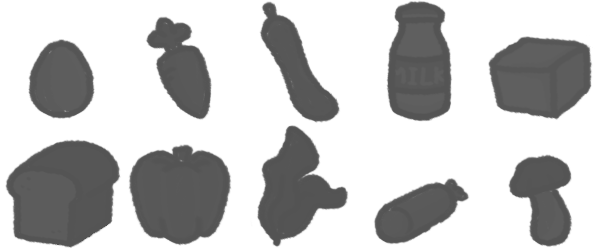
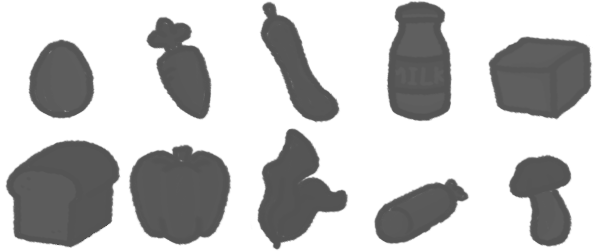
버그수정

diff --git a/_Script/EndingBox.cs b/_Script/EndingBox.cs
@@ -23,7 +23,7 @@ public class EndingBox : MonoBehaviour {
     public GameObject endR_obj, endL_obj, endClose_obj;
     public GameObject[] ani_obk;
     public AudioSource m_end;
-    public AudioClip sp_end, sp_original;
+    public AudioClip sp_end;//, sp_original;
     public int page = 0;
 
     public Animator end_ani;
@@ -273,7 +273,13 @@ public class EndingBox : MonoBehaviour {
         page = 0;
         endBack_obj.SetActive(true);
         //소리
-        m_end.clip = sp_end;
+         m_end.clip = sp_end;
+
+        if (SoundHandler.instance != null)
+        {
+            SoundHandler.instance.SetMute(true);
+        }
+
         m_end.Play();
         SumPage();
         endL_obj.SetActive(false);
@@ -285,7 +291,13 @@ public class EndingBox : MonoBehaviour {
     {
         endBack_obj.SetActive(true);
         //소리
-        m_end.clip = sp_end;
+         m_end.clip = sp_end;
+
+        if (SoundHandler.instance != null)
+        {
+            SoundHandler.instance.SetMute(true);
+        }
+
         m_end.Play();
         endL_obj.SetActive(false);
         endClose_obj.SetActive(false);
@@ -306,8 +318,13 @@ public class EndingBox : MonoBehaviour {
         audio_obj.GetComponent<SoundEvt>().cancleSound();
         endBack_obj.SetActive(false);
         //소리
-        m_end.clip = sp_original;
-        m_end.Play();
+        // m_end.clip = sp_original;
+
+        if (SoundHandler.instance != null)
+        {
+            SoundHandler.instance.SetMute(false);
+        }
+        m_end.Stop();
         end_i = 0;
         if (room == 5)
         {

diff --git a/_Script/TalkEvt.cs b/_Script/TalkEvt.cs
@@ -949,6 +949,11 @@ public class TalkEvt : MonoBehaviour {
         itemLv[2] = PlayerPrefs.GetInt("lightlv", 0);
         itemLv[3] = PlayerPrefs.GetInt("windowlv", 0);
         itemLv[4] = PlayerPrefs.GetInt("seedlv", 0) - 1;
+
+        if (itemLv[0] >= 14) //KeyNotFoundException: The given key '14' was not present in the dictionary. 오류 방지 
+        {
+           itemLv[0] = 13;
+        }
     }
 
     public void talkEvtSpring()
@@ -1120,9 +1125,10 @@ public class TalkEvt : MonoBehaviour {
     public void bookAllArr()
     {
         if (itemLv[0] == 12 || itemLv[0] == 13)
-            {
+        {
             itemAllArr = 7;
-        }else if (itemLv[0] == 7 || itemLv[0] == 8 || itemLv[0] == 9 || itemLv[0] == 10 || itemLv[0] == 11)
+        }
+        else if (itemLv[0] == 7 || itemLv[0] == 8 || itemLv[0] == 9 || itemLv[0] == 10 || itemLv[0] == 11)
         {
             itemAllArr = 5;
         }

diff --git a/_Script/classLoad/LoadingData.cs b/_Script/classLoad/LoadingData.cs
@@ -102,7 +102,7 @@ public class LoadingData : LodingDataBase
             var iceboxTask = LoadSpritesAsync("Assets/UI/Roomdown/back_ice(190x230).png");
             var lightTask = LoadSpritesAsync("Assets/UI/Roomdown/light(150x130).png");
             var shelfTask = LoadSpritesAsync("Assets/UI/Roomdown/back_shelf(240x130).png");
-            var flowerpotTask = LoadSpritesAsync("Assets/UI/Roomdown/head_flower_re(100x170).png");
+            var flowerpotTask = LoadSpritesAsync("Assets/UI/Roomdown/head_flowerseed(100x170).png");
             var gasrangeTask = LoadSpritesAsync("Assets/UI/Roomdown/back_gasrange(210x200).png");
             var matTask = LoadSpritesAsync("Assets/UI/Roomdown/head_carpet(230x200).png");
             var mat2Task = LoadSpritesAsync("Assets/UI/Roomdown/back_carpet(200x80).png");

diff --git a/_Script/SeedTime.cs b/_Script/SeedTime.cs
@@ -426,6 +426,7 @@ public class SeedTime : MonoBehaviour {
 
     IEnumerator TimeCheck()
     {
+        yield return new WaitForSeconds(0.5f);
         waterPot_obj.GetComponent<Image>().sprite = waterPot_spr[0];
         int a =0;
         while (a == 0)
